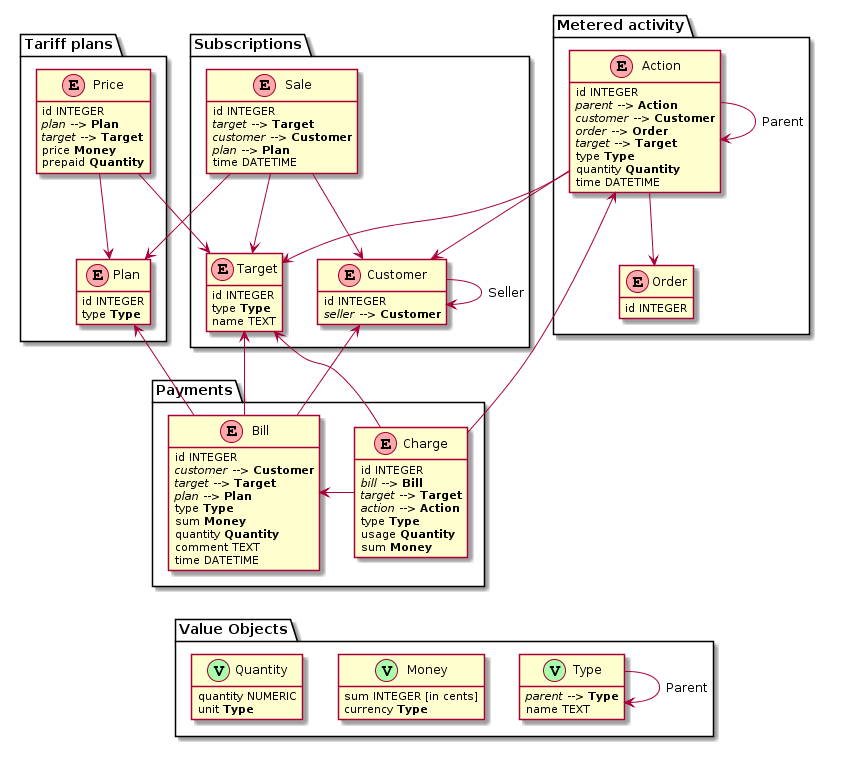
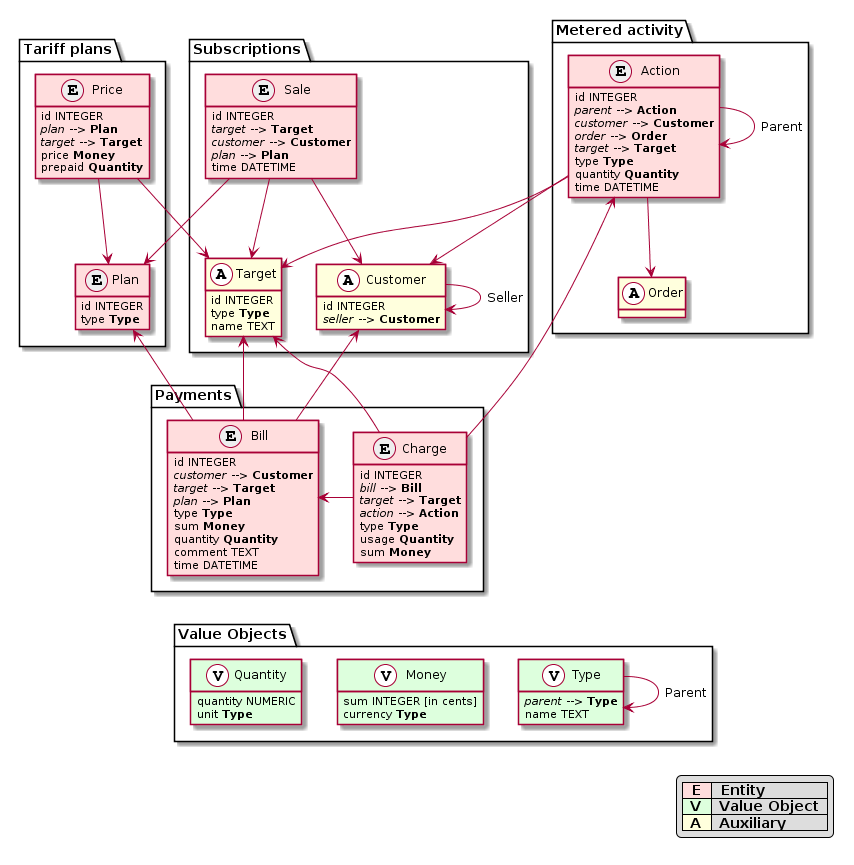
Updated model schema

diff --git a/docs/model.md b/docs/model.md
@@ -1,8 +1,14 @@
 @startuml
 
-!define Entity(name,desc) class name as "desc" << (E,#FFAAAA) >>
-!define Outer(name,desc) class name as "desc" << (O,#DDDDDD) >>
-!define ValueObject(name,desc) class name as "desc" << (V,#AAFFAA) >>
+legend right
+        |<#FFDDDD>  <b>E</b>  |  <b>Entity</b> |
+        |<#DDFFDD>  <b>V</b>  |  <b>Value Object</b>  |
+        |<#FFFFDD>  <b>A</b>  |  <b>Auxiliary</b> |
+endlegend
+
+!define Entity(name,desc) class name as "desc" << (E,#EEEEEE) >> #FFDDDD
+!define ValueObject(name,desc) class name as "desc" << (V,#FFFFFF) >> #DDFFDD
+!define Auxiliary(name,desc) class name as "desc" << (A,#FFFFFF) >> #FFFFDD
 ' we use bold for primary key
 ' green color for unique
 ' and underscore for not_null
@@ -67,12 +73,12 @@ package "Subscriptions" {
         time DATETIME
     }
 
-    Outer(customer, "Customer") {
+    Auxiliary(customer, "Customer") {
         primary_key(id)
         foreign_key(seller, Customer)
     }
 
-    Outer(target, "Target") {
+    Auxiliary(target, "Target") {
         primary_key(id)
         value_object(type, Type)
         name TEXT
@@ -80,8 +86,7 @@ package "Subscriptions" {
 }
 
 package "Metered activity" {
-    Outer(order, "Order") {
-        primary_key(id)
+    Auxiliary(order, "Order") {
     }
 
     Entity(action, "Action") {
